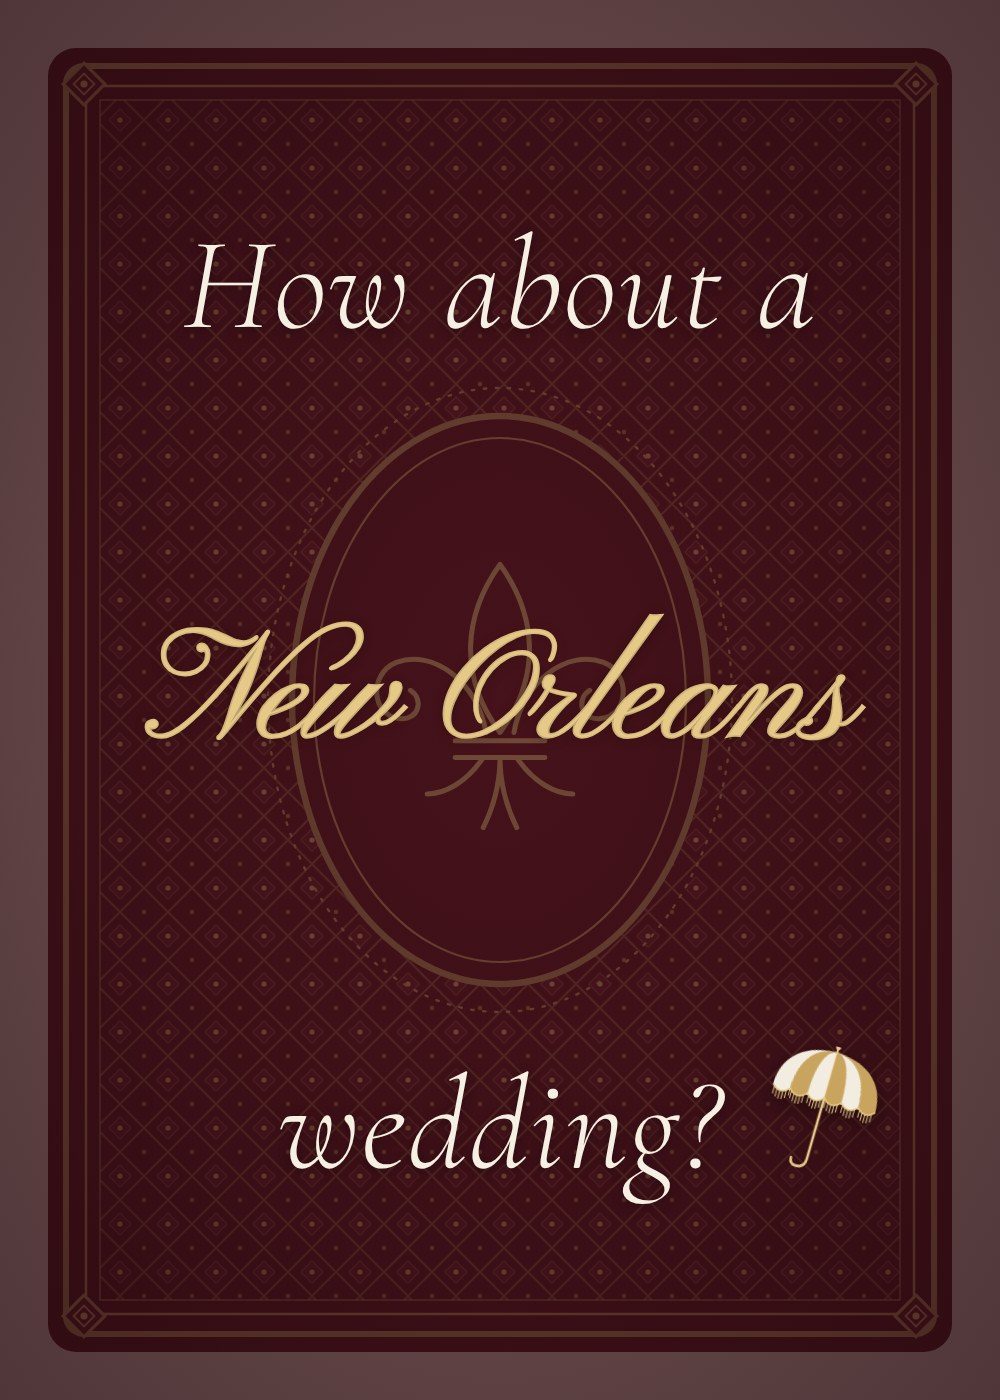
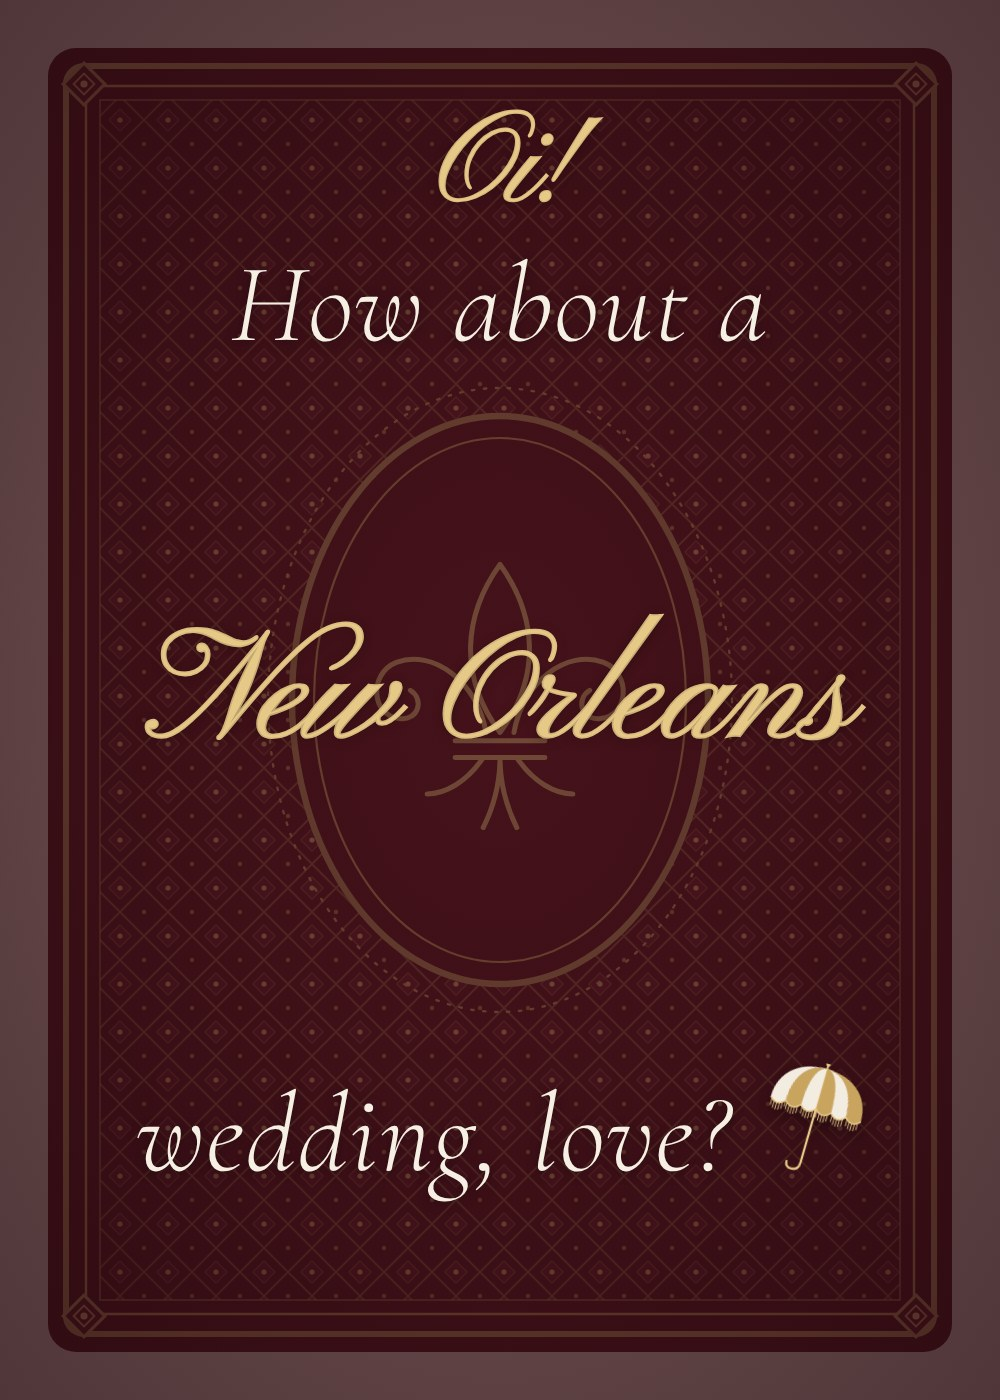
Link preview: 'Oi! How about a New Orleans wedding, love?'
Claude-Session: https://claude.ai/code/session_016KBQnmGzJaodTgtuWJa9K5

diff --git a/home.html b/home.html
@@ -11,15 +11,15 @@
   <meta property="og:url" content="https://aneworleanswedding.com/home.html">
   <meta property="og:title" content="Ailsa ⚜ André">
   <meta property="og:description" content="Save the date · January 8, 2028 · New Orleans, Louisiana">
-  <meta property="og:image" content="https://aneworleanswedding.com/assets/og-card-portrait.jpg?v=15">
+  <meta property="og:image" content="https://aneworleanswedding.com/assets/og-card-portrait.jpg?v=16">
   <meta property="og:image:type" content="image/jpeg">
   <meta property="og:image:width" content="1000">
   <meta property="og:image:height" content="1400">
-  <meta property="og:image:alt" content="How about a New Orleans wedding? Written over a maroon fleur-de-lis playing card, with a parasol">
+  <meta property="og:image:alt" content="Oi! How about a New Orleans wedding, love? Written over a maroon fleur-de-lis playing card, with a parasol">
   <meta name="twitter:card" content="summary_large_image">
   <meta name="twitter:title" content="Ailsa ⚜ André">
   <meta name="twitter:description" content="Save the date · January 8, 2028 · New Orleans, Louisiana">
-  <meta name="twitter:image" content="https://aneworleanswedding.com/assets/og-card-portrait.jpg?v=15">
+  <meta name="twitter:image" content="https://aneworleanswedding.com/assets/og-card-portrait.jpg?v=16">
   <meta name="theme-color" content="#f8f4ec">
   <link rel="icon" href="favicon.svg" type="image/svg+xml">
   <link rel="apple-touch-icon" href="apple-touch-icon.png">

diff --git a/index.html b/index.html
@@ -11,15 +11,15 @@
   <meta property="og:url" content="https://aneworleanswedding.com/">
   <meta property="og:title" content="Ailsa ⚜ André">
   <meta property="og:description" content="Save the date · January 8, 2028 · New Orleans, Louisiana">
-  <meta property="og:image" content="https://aneworleanswedding.com/assets/og-card-portrait.jpg?v=15">
+  <meta property="og:image" content="https://aneworleanswedding.com/assets/og-card-portrait.jpg?v=16">
   <meta property="og:image:type" content="image/jpeg">
   <meta property="og:image:width" content="1000">
   <meta property="og:image:height" content="1400">
-  <meta property="og:image:alt" content="How about a New Orleans wedding? Written over a maroon fleur-de-lis playing card, with a parasol">
+  <meta property="og:image:alt" content="Oi! How about a New Orleans wedding, love? Written over a maroon fleur-de-lis playing card, with a parasol">
   <meta name="twitter:card" content="summary_large_image">
   <meta name="twitter:title" content="Ailsa ⚜ André">
   <meta name="twitter:description" content="Save the date · January 8, 2028 · New Orleans, Louisiana">
-  <meta name="twitter:image" content="https://aneworleanswedding.com/assets/og-card-portrait.jpg?v=15">
+  <meta name="twitter:image" content="https://aneworleanswedding.com/assets/og-card-portrait.jpg?v=16">
   <meta name="theme-color" content="#f8f4ec">
   <link rel="icon" href="favicon.svg" type="image/svg+xml">
   <link rel="apple-touch-icon" href="apple-touch-icon.png">

diff --git a/tools/make-previews.js b/tools/make-previews.js
@@ -55,12 +55,12 @@ ${pos.oi ? `.title div.a,.title div.wed span{font-size:${112*k}px}
 .title .wed .p svg{display:block;width:100%;height:auto}
 .title .wed .p path[stroke="#3a2a22"]{stroke:#e6c887}`;
 };
-// COPY=oi renders the longer draft: "Oi! / How about a / New Orleans / wedding, baby?"
-const OI = process.env.COPY === "oi";
+// Live preview copy: "Oi! / How about a / New Orleans / wedding, love?" (COPY=short renders the earlier version)
+const OI = process.env.COPY !== "short";
 const parasolHTML = `<div class="p">${parasolSVG(["#f3ece0", "#c9a45f", "#e6c887"])}</div>`;
 const titleHTML = OI
   ? `<div class="wash"></div><div class="title"><div class="a oi">Oi!</div><div class="a">How about a</div><div class="no">New Orleans</div>
-<div class="wed"><div class="w"><span>wedding, baby?</span>${parasolHTML}</div></div></div>`
+<div class="wed"><div class="w"><span>wedding, love?</span>${parasolHTML}</div></div></div>`
   : `<div class="wash"></div><div class="title"><div class="a">How about a</div><div class="no">New Orleans</div>
 <div class="wed"><div class="w"><span>wedding?</span>${parasolHTML}</div></div></div>`;
 const FONTS = `<link href="https://fonts.googleapis.com/css2?family=Pinyon+Script&family=Cormorant+Garamond:ital,wght@0,300;0,400;0,500;1,300;1,400;1,500${SUP.gf ? "&family=" + SUP.gf : ""}&display=swap" rel="stylesheet">`;

diff --git a/README.md b/README.md
@@ -12,7 +12,7 @@ Static wedding website (plain HTML/CSS/JS, no build step).
 - `CNAME` — custom domain for GitHub Pages
 - `assets/photos/` — couple photos (resized, metadata stripped)
 - `assets/save-the-date.ics` — calendar file for the "Add to Calendar" buttons (all-day, Jan 8 2028, The Capulet)
-- `assets/og-card-portrait.jpg` (live link preview: "How about a New Orleans wedding?" on the card), `assets/og-image.jpg` and `assets/og-image-cards.jpg` (earlier versions), `apple-touch-icon.png`, `assets/icon-512.png` — link previews and home-screen icons,
+- `assets/og-card-portrait.jpg` (live link preview: "Oi! How about a New Orleans wedding, love?" on the card), `assets/og-image.jpg` and `assets/og-image-cards.jpg` (earlier versions), `apple-touch-icon.png`, `assets/icon-512.png` — link previews and home-screen icons,
   rendered by `node tools/make-previews.js` (layouts in `tools/make-previews.js`, `tools/preview-*.html` and `tools/preview.html`)
 
 ## Preview locally
